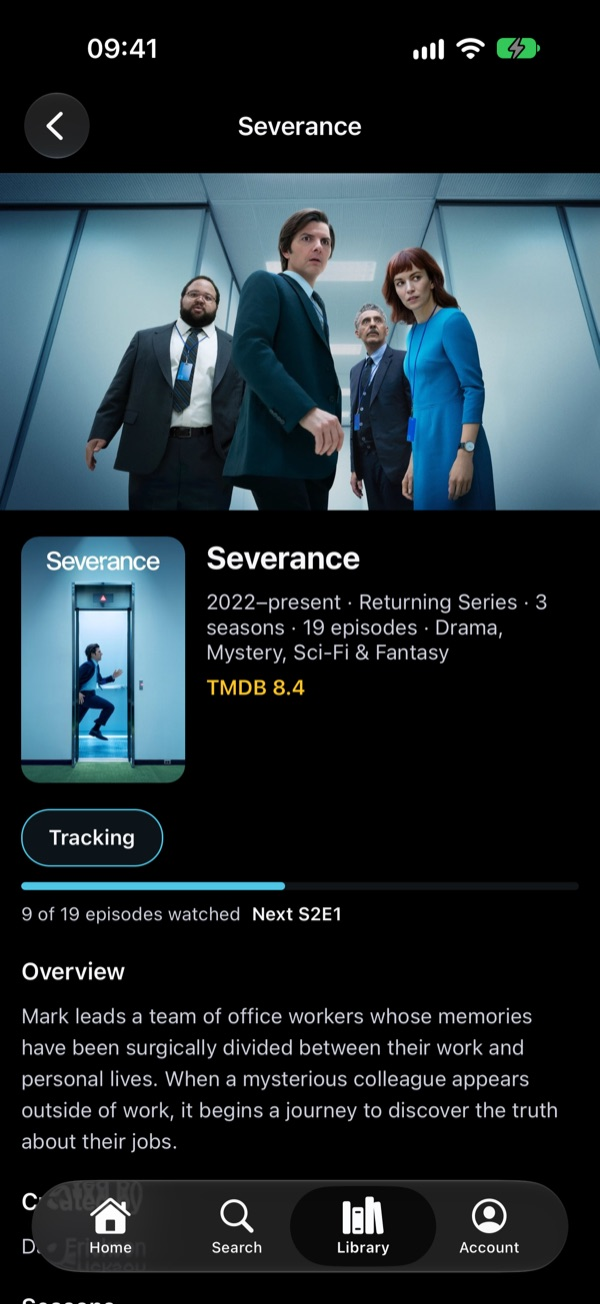
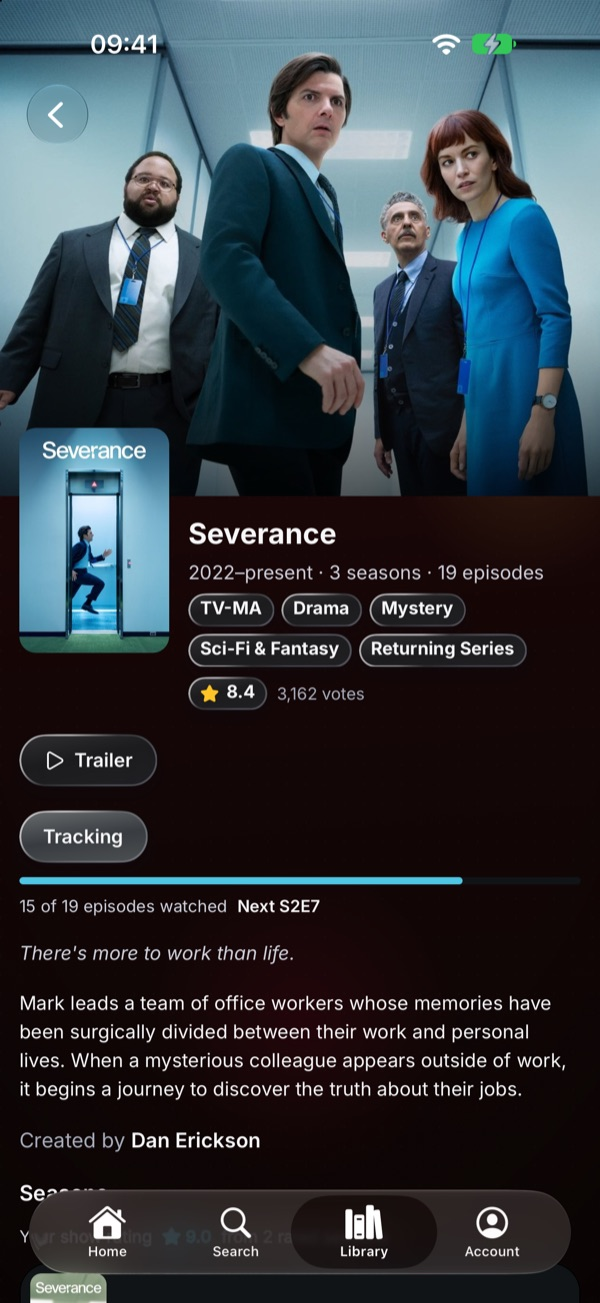
docs: retake the README screenshots with a full library

diff --git a/README.md b/README.md
@@ -27,11 +27,15 @@ Every personal rating is kept apart from the TMDB or IGDB community rating, and 
 
 ## Screenshots
 
-The mobile app, captured on 2026-11-21 in the iOS Simulator, before the restyle to the web's glass look with live TMDB and IGDB content and the local test account. Catalog titles and ratings change over time.
+The mobile app, captured on 2026-11-27 in the iOS Simulator with live TMDB and IGDB content. The library belongs to a local demo account, filled through the API with 24 tracked shows, about 45 movies and 27 games. Catalog titles and community ratings change over time.
 
-| Shows home | Show page | Search | Library |
+| Shows: Up next | Shows: Watched | Show page | Season page |
 | --- | --- | --- | --- |
-| ![Shows home with the Trending this week and Popular rows](docs/screenshots/mobile-shows-home.jpg) | ![Severance title screen with Tracking, progress and the next episode](docs/screenshots/mobile-show-page.jpg) | ![Game search filtered to role-playing games from 2025 rated IGDB 7 or more](docs/screenshots/mobile-search-games.jpg) | ![Library Up next page with six tracked shows and their next episode](docs/screenshots/mobile-library-up-next.jpg) |
+| ![Library Up next page with tracked shows and the next episode of each](docs/screenshots/mobile-library-shows.jpg) | ![Library Watched page with finished and caught up shows and their calculated show ratings](docs/screenshots/mobile-library-shows-watched.jpg) | ![Severance title screen with Tracking, 15 of 19 episodes watched and the next episode](docs/screenshots/mobile-show-page.jpg) | ![Severance season 1 watched, with a season rating of 9.0 from 9 rated episodes](docs/screenshots/mobile-season-page.jpg) |
+
+| Movies: Watched | Movie page | Games: Finished | Game page |
+| --- | --- | --- | --- |
+| ![Library Watched movies page with a personal score on each poster](docs/screenshots/mobile-library-movies.jpg) | ![Dune: Part Two marked Watched with a personal score of 9](docs/screenshots/mobile-movie-page.jpg) | ![Library Finished games page with a personal score on each poster](docs/screenshots/mobile-library-games.jpg) | ![Baldur's Gate III set to Finished with a personal score of 10](docs/screenshots/mobile-game-page.jpg) |
 
 ## Development status
 
